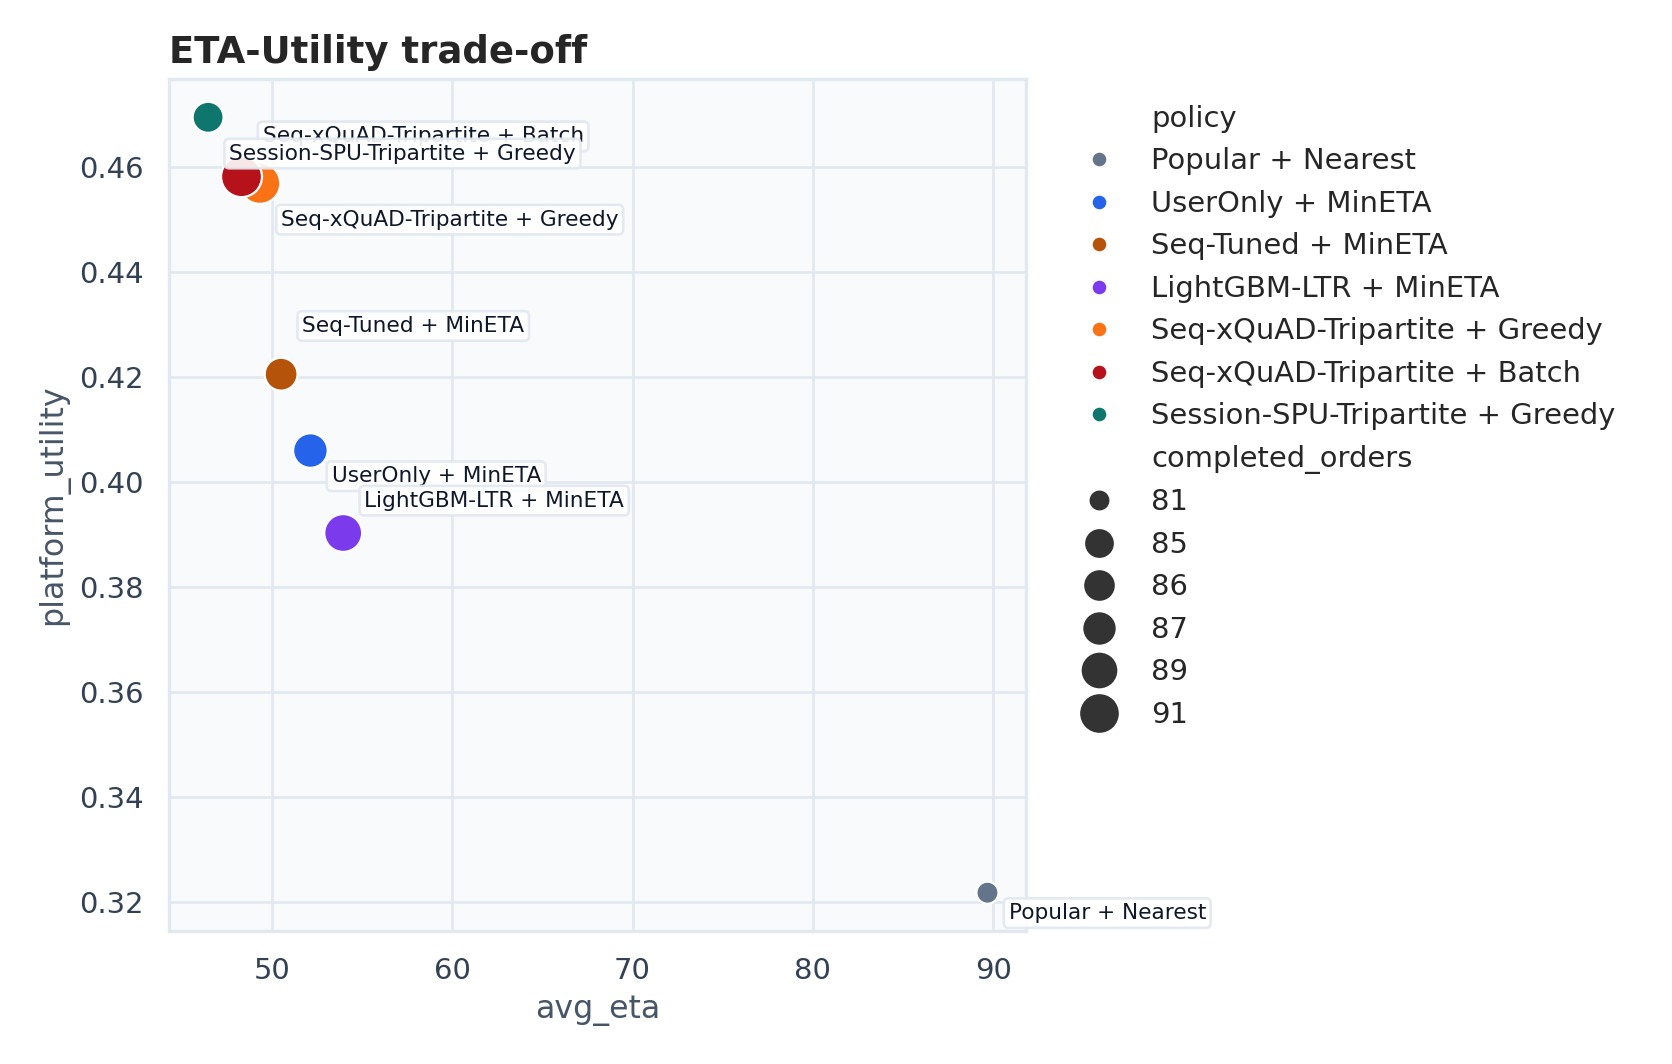
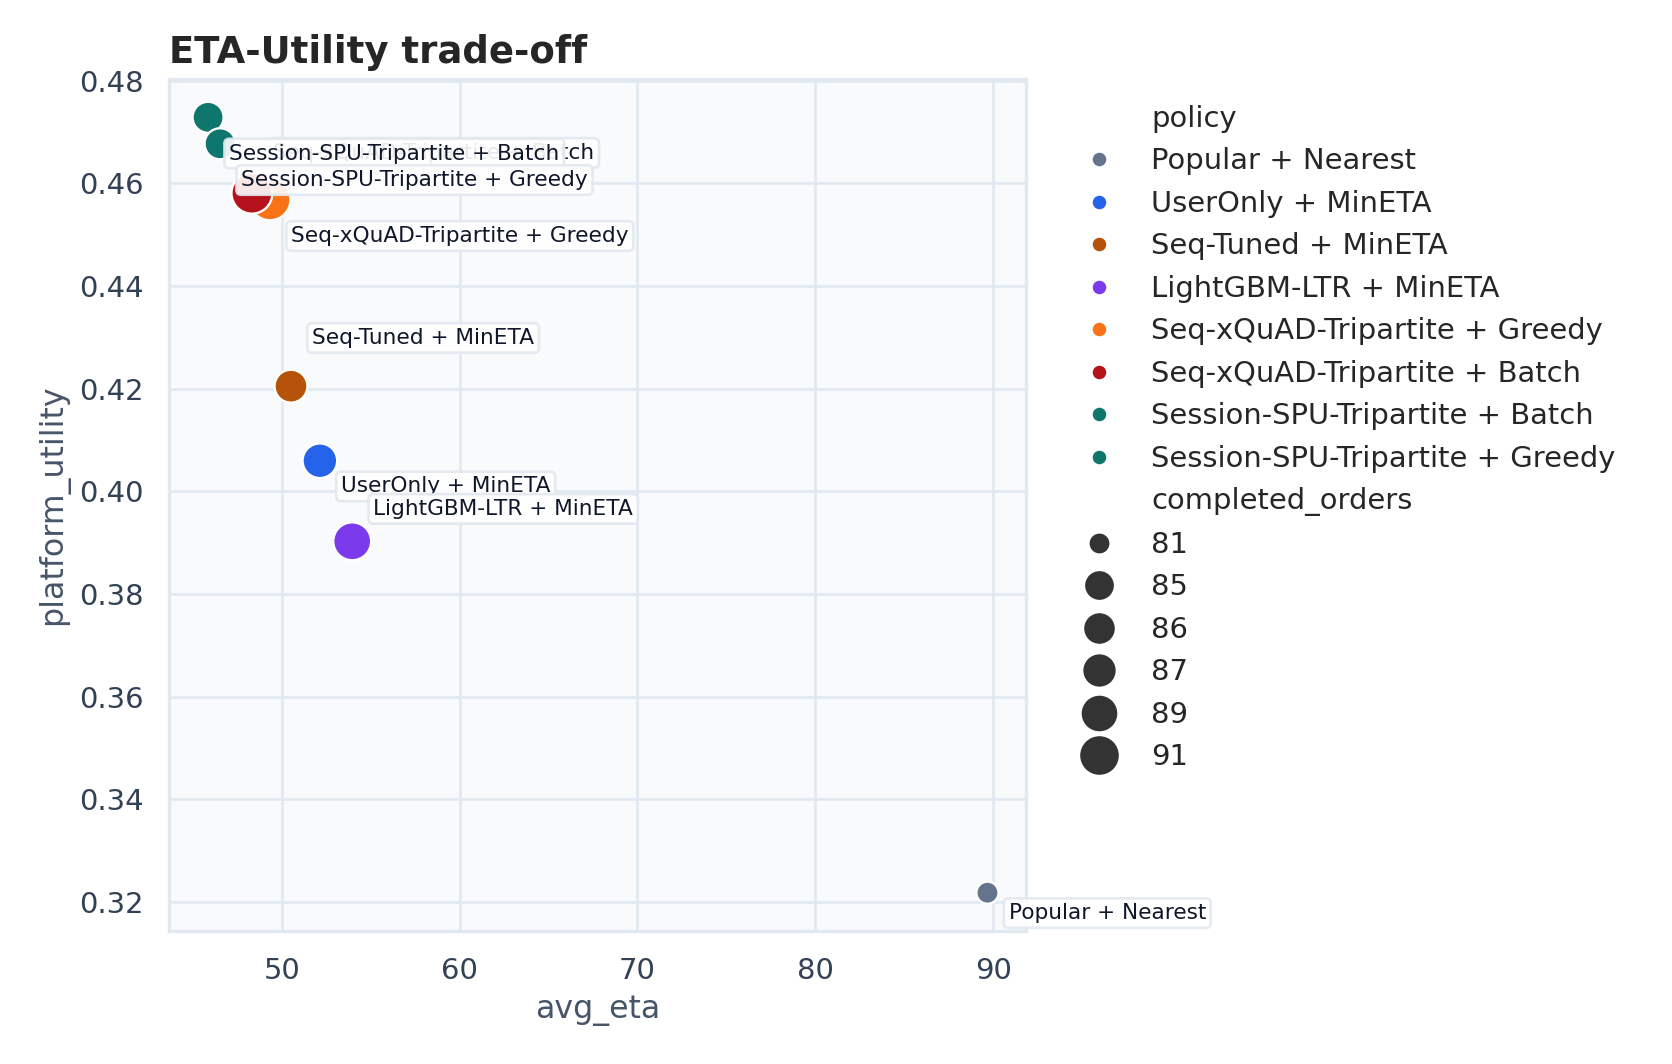
增加demo的小地图展示功能

diff --git a/foodflow/demo_support.py b/foodflow/demo_support.py
@@ -380,6 +380,61 @@ def choose_peak_replay_merchant(
     return candidates[int(rng.choice(np.arange(len(candidates)), p=probs))]
 
 
+def peak_assignment_score(
+    user_row: pd.Series,
+    merchant_row: pd.Series,
+    rider_row: pd.Series,
+    rider_policy: str,
+    eta: float,
+) -> float:
+    if rider_policy == "load_aware":
+        acceptance = acceptance_probability(user_row, merchant_row, rider_row, eta)
+        return rider_score(eta, rider_row, acceptance)
+    if rider_policy == "min_eta":
+        return -float(eta)
+    if rider_policy == "nearest":
+        return -haversine_km(
+            float(rider_row.get("lng", 116.40)),
+            float(rider_row.get("lat", 39.92)),
+            float(merchant_row.get("lng", 116.40)),
+            float(merchant_row.get("lat", 39.92)),
+        )
+    return 0.0
+
+
+def peak_match_record(
+    order_index: int,
+    order_id: str,
+    user_id: str,
+    merchant_id: str,
+    user_row: pd.Series,
+    merchant_row: pd.Series,
+    rider_id: str,
+    rider_row: pd.Series,
+    eta: float,
+    score: float,
+    slot_number: int = 0,
+) -> dict[str, object]:
+    return {
+        "order_index": int(order_index),
+        "order_id": str(order_id),
+        "user_id": str(user_id),
+        "merchant_id": str(merchant_id),
+        "merchant_name": merchant_display_name(merchant_row),
+        "rider_id": str(rider_id),
+        "slot_number": int(slot_number),
+        "eta": float(eta),
+        "score": float(score),
+        "rider_load": int(float(rider_row.get("load", 0) or 0)),
+        "user_lng": float(user_row.get("lng", 116.40)),
+        "user_lat": float(user_row.get("lat", 39.92)),
+        "merchant_lng": float(merchant_row.get("lng", 116.40)),
+        "merchant_lat": float(merchant_row.get("lat", 39.92)),
+        "rider_lng": float(rider_row.get("lng", 116.40)),
+        "rider_lat": float(rider_row.get("lat", 39.92)),
+    }
+
+
 def build_peak_trace(
     data: PreparedData,
     policies: dict[str, tuple[object, str] | tuple[object, str, str]],
@@ -428,8 +483,9 @@ def build_peak_trace(
             step_timeout = 0
             step_example: dict[str, object] = {}
             pending_orders: list[dict[str, object]] = []
+            step_matches: list[dict[str, object]] = []
 
-            for user_id in request_users:
+            for request_index, user_id in enumerate(request_users):
                 recs = rec_result.recommendations.get(user_id, [])
                 chosen = choose_peak_replay_merchant(recs, rec_result.scores.get(user_id, {}), choice_rng)
                 if chosen is None or chosen not in merchants_df.index or user_id not in users_df.index:
@@ -463,8 +519,23 @@ def build_peak_trace(
                 if rider_id is None:
                     continue
                 rider_match = available[available["rider_id"].astype(str) == str(rider_id)]
+                rider_row = rider_match.iloc[0] if not rider_match.empty else pd.Series(dtype=object)
+                order_id = f"{policy_name}-{step}-{request_index}-{user_id}"
+                step_matches.append(
+                    peak_match_record(
+                        request_index,
+                        order_id,
+                        str(user_id),
+                        str(chosen),
+                        user_row,
+                        merchant_row,
+                        rider_id,
+                        rider_row,
+                        float(eta),
+                        peak_assignment_score(user_row, merchant_row, rider_row, rider_policy, float(eta)),
+                    )
+                )
                 if not step_example and not rider_match.empty:
-                    rider_row = rider_match.iloc[0]
                     step_example = {
                         "sample_user_id": str(user_id),
                         "sample_merchant_id": str(chosen),
@@ -506,24 +577,19 @@ def build_peak_trace(
                     user_row = order["user_row"]
                     merchant_row = order["merchant_row"]
                     batch_matches.append(
-                        {
-                            "order_index": int(assignment.get("order_index", len(batch_matches))),
-                            "order_id": str(assignment["order_id"]),
-                            "user_id": str(order["user_id"]),
-                            "merchant_id": str(order["merchant_id"]),
-                            "merchant_name": merchant_display_name(merchant_row),
-                            "rider_id": rider_id,
-                            "slot_number": int(assignment.get("slot_number", 0)),
-                            "eta": eta,
-                            "score": float(assignment.get("score", 0.0)),
-                            "rider_load": int(float(rider_row.get("load", 0) or 0)),
-                            "user_lng": float(user_row.get("lng", 116.40)),
-                            "user_lat": float(user_row.get("lat", 39.92)),
-                            "merchant_lng": float(merchant_row.get("lng", 116.40)),
-                            "merchant_lat": float(merchant_row.get("lat", 39.92)),
-                            "rider_lng": float(rider_row.get("lng", 116.40)),
-                            "rider_lat": float(rider_row.get("lat", 39.92)),
-                        }
+                        peak_match_record(
+                            int(assignment.get("order_index", len(batch_matches))),
+                            str(assignment["order_id"]),
+                            str(order["user_id"]),
+                            str(order["merchant_id"]),
+                            user_row,
+                            merchant_row,
+                            rider_id,
+                            rider_row,
+                            eta,
+                            float(assignment.get("score", 0.0)),
+                            int(assignment.get("slot_number", 0)),
+                        )
                     )
                     if not step_example and not rider_match.empty:
                         step_example = {
@@ -549,9 +615,14 @@ def build_peak_trace(
                     timeout += is_timeout
                     step_timeout += is_timeout
                 if batch_matches:
+                    step_matches = batch_matches
                     step_example["batch_order_count"] = len(pending_orders)
                     step_example["batch_matched_count"] = len(batch_matches)
                     step_example["batch_matches_json"] = json.dumps(batch_matches, ensure_ascii=False)
+            if step_matches:
+                step_example["step_order_count"] = len(pending_orders) if assignment_mode == "batch" else len(request_users)
+                step_example["step_matched_count"] = len(step_matches)
+                step_example["step_matches_json"] = json.dumps(step_matches, ensure_ascii=False)
 
             assigned = riders[pd.to_numeric(riders["assigned"], errors="coerce").fillna(0) > 0]
             rows.append(

diff --git a/app.py b/app.py
@@ -379,8 +379,8 @@ def render_relative_position_map(row: pd.Series, title: str, height: int = 280) 
     st.plotly_chart(fig, use_container_width=True)
 
 
-def parse_batch_matches(row: pd.Series) -> list[dict[str, object]]:
-    raw = row.get("batch_matches_json", "")
+def parse_step_matches(row: pd.Series) -> list[dict[str, object]]:
+    raw = row.get("step_matches_json", row.get("batch_matches_json", ""))
     if raw is None or pd.isna(raw) or not str(raw).strip():
         return []
     try:
@@ -390,10 +390,10 @@ def parse_batch_matches(row: pd.Series) -> list[dict[str, object]]:
     return matches if isinstance(matches, list) else []
 
 
-def render_batch_matching_view(row: pd.Series) -> None:
-    matches = parse_batch_matches(row)
+def render_step_matching_view(row: pd.Series) -> None:
+    matches = parse_step_matches(row)
     if not matches:
-        st.caption("该时间步没有可展示的 batch 匹配。")
+        st.caption("该时间步没有可展示的匹配。")
         return
 
     display_matches = matches[:16]
@@ -507,8 +507,8 @@ def render_batch_matching_view(row: pd.Series) -> None:
     fig.update_layout(
         title=dict(
             text=(
-                f"{row['policy']} · 第 {int(row['step'])} 步 batch 地图匹配 "
-                f"({int(row.get('batch_matched_count', len(matches)))} / {int(row.get('batch_order_count', len(matches)))})"
+                f"{row['policy']} · 第 {int(row['step'])} 步 {row.get('assignment_mode', 'greedy')} 地图匹配 "
+                f"({int(row.get('step_matched_count', len(matches)))} / {int(row.get('step_order_count', len(matches)))})"
             ),
             font=dict(color="#111827", size=15),
         ),
@@ -530,8 +530,8 @@ def render_batch_matching_view(row: pd.Series) -> None:
         scaleratio=1,
     )
     st.caption(
-        "蓝色 O 是用户订单，紫色 S 是骑手容量槽位，橙/绿实线表示 batch 匹配结果；"
-        "紫色虚线表示骑手到商家的取餐段，绿色菱形是订单对应商家。"
+        "蓝色 O 是用户订单，紫色 S 是骑手或骑手容量槽位，橙/绿实线表示该策略的匹配结果；"
+        "紫色虚线表示骑手到商家的取餐段，绿色菱形是订单对应商家。Greedy 是逐单局部选择，Batch 是整批二分图匹配。"
     )
     st.plotly_chart(fig, use_container_width=True)
 
@@ -1382,30 +1382,34 @@ with tab_peak:
                                 height=260,
                             )
 
-            if "assignment_mode" in trace_df.columns and "batch_matches_json" in trace_df.columns:
-                batch_rows = trace_df[
-                    trace_df["assignment_mode"].astype(str).eq("batch")
-                    & trace_df["batch_matches_json"].fillna("").astype(str).str.len().gt(2)
+            if "assignment_mode" in trace_df.columns and "step_matches_json" in trace_df.columns:
+                match_rows = trace_df[
+                    trace_df["step_matches_json"].fillna("").astype(str).str.len().gt(2)
                 ].copy()
-                if not batch_rows.empty:
-                    st.subheader("Batch 地图匹配")
+                if not match_rows.empty:
+                    st.subheader("单步匹配地图")
                     b1, b2 = st.columns([1.2, 0.8])
-                    batch_policies = batch_rows["policy"].astype(str).drop_duplicates().tolist()
+                    preferred_modes = match_rows[
+                        match_rows["rider_policy"].astype(str).eq("load_aware")
+                    ].copy()
+                    if preferred_modes.empty:
+                        preferred_modes = match_rows
+                    match_policies = preferred_modes["policy"].astype(str).drop_duplicates().tolist()
                     with b1:
-                        selected_batch_policy = st.selectbox("Batch 策略", batch_policies, key="peak_batch_policy")
-                    policy_batch_rows = batch_rows[batch_rows["policy"].astype(str) == selected_batch_policy].sort_values("step")
-                    batch_steps = policy_batch_rows["step"].astype(int).tolist()
+                        selected_match_policy = st.selectbox("匹配策略", match_policies, key="peak_match_policy")
+                    policy_match_rows = match_rows[match_rows["policy"].astype(str) == selected_match_policy].sort_values("step")
+                    match_steps = policy_match_rows["step"].astype(int).tolist()
                     with b2:
-                        selected_batch_step = st.selectbox(
+                        selected_match_step = st.selectbox(
                             "时间步",
-                            batch_steps,
-                            index=max(len(batch_steps) - 1, 0),
-                            key="peak_batch_step",
+                            match_steps,
+                            index=max(len(match_steps) - 1, 0),
+                            key="peak_match_step",
                         )
-                    batch_row = policy_batch_rows[policy_batch_rows["step"].astype(int) == int(selected_batch_step)].iloc[-1]
-                    render_batch_matching_view(batch_row)
+                    match_row = policy_match_rows[policy_match_rows["step"].astype(int) == int(selected_match_step)].iloc[-1]
+                    render_step_matching_view(match_row)
 
-            trace_display = trace_df.drop(columns=["batch_matches_json"], errors="ignore")
+            trace_display = trace_df.drop(columns=["batch_matches_json", "step_matches_json"], errors="ignore")
             st.dataframe(trace_display, use_container_width=True, hide_index=True)
     else:
         st.caption("开启后会连续运行多轮推荐与派单仿真，首次计算需要等待。")

diff --git a/tests/test_demo_support.py b/tests/test_demo_support.py
@@ -99,11 +99,21 @@ def test_demo_recommendation_and_rider_frames(tmp_path: Path):
     assert set(trace["policy"]) == {"UserOnly + MinETA", "Seq-xQuAD-Tripartite", "Seq-xQuAD-Tripartite + Batch"}
     assert trace["step"].max() == 3
     assert trace["completed_orders"].max() > 0
-    assert {"step_completed_orders", "step_avg_eta", "step_timeout_rate", "assignment_mode"}.issubset(trace.columns)
+    assert {
+        "step_completed_orders",
+        "step_avg_eta",
+        "step_timeout_rate",
+        "assignment_mode",
+        "step_matches_json",
+    }.issubset(trace.columns)
     assert trace["step_completed_orders"].ge(0).all()
     assert "batch" in set(trace["assignment_mode"])
     assert {"sample_user_lng", "sample_merchant_lng", "sample_rider_lng"}.issubset(trace.columns)
+    greedy_trace = trace[trace["assignment_mode"].astype(str).eq("greedy")]
+    greedy_matches = json.loads(greedy_trace["step_matches_json"].dropna().astype(str).iloc[0])
+    assert greedy_matches
     batch_trace = trace[trace["assignment_mode"].astype(str).eq("batch")]
+    step_batch_matches = json.loads(batch_trace["step_matches_json"].dropna().astype(str).iloc[0])
     batch_matches = json.loads(batch_trace["batch_matches_json"].dropna().astype(str).iloc[0])
-    assert batch_matches
+    assert step_batch_matches == batch_matches
     assert {"order_id", "rider_id", "slot_number", "eta", "score"}.issubset(batch_matches[0])

diff --git a/tests/test_metrics.py b/tests/test_metrics.py
@@ -112,6 +112,13 @@ def test_tripartite_frontier_marks_dominated_rows():
                 "ExposureGini": 0.75,
                 "Coverage@20": 0.22,
             },
+            {
+                "model": "Session-SPU-Tripartite",
+                "Recall@20": 0.34,
+                "NDCG@20": 0.27,
+                "ExposureGini": 0.69,
+                "Coverage@20": 0.24,
+            },
         ]
     )
     simulation = pd.DataFrame(
@@ -148,12 +155,21 @@ def test_tripartite_frontier_marks_dominated_rows():
                 "user_satisfaction": 0.82,
                 "platform_utility": 0.49,
             },
+            {
+                "policy": "Session-SPU-Tripartite + Batch",
+                "avg_eta": 46.0,
+                "timeout_rate": 0.40,
+                "on_time_rate": 0.60,
+                "user_satisfaction": 0.78,
+                "platform_utility": 0.56,
+            },
         ]
     )
     frontier = build_tripartite_frontier(offline, simulation)
     assert {"policy", "model", "is_frontier"}.issubset(frontier.columns)
     assert "LightGBM-LTR + MinETA" in set(frontier["policy"])
     assert "Seq-xQuAD-Tripartite + Batch" in set(frontier["policy"])
+    assert "Session-SPU-Tripartite + Batch" in set(frontier["policy"])
     assert frontier["is_frontier"].any()
 
 

diff --git a/foodflow/frontier.py b/foodflow/frontier.py
@@ -12,6 +12,7 @@ POLICY_MODEL_MAP = {
     "Seq-xQuAD-Tripartite + Greedy": "Seq-xQuAD-Tripartite",
     "Seq-xQuAD-Tripartite + Batch": "Seq-xQuAD-Tripartite",
     "Session-SPU-Tripartite + Greedy": "Session-SPU-Tripartite",
+    "Session-SPU-Tripartite + Batch": "Session-SPU-Tripartite",
     "Seq-xQuAD-Tripartite": "Seq-xQuAD-Tripartite",
     "Seq-xQuAD-Tripartite-Batch": "Seq-xQuAD-Tripartite",
     "Session-SPU-Tripartite": "Session-SPU-Tripartite",

diff --git a/docs/DATA_AUDIT.md b/docs/DATA_AUDIT.md
@@ -26,9 +26,9 @@
 
 | file                  | exists   |    bytes |    rows |
 |:----------------------|:---------|---------:|--------:|
-| users.csv             | True     | 16543513 |  200000 |
-| merchants.csv         | True     |  4697590 |   29072 |
-| spus.csv              | True     | 16908698 |  179778 |
-| orders_train.csv      | True     | 73900028 | 1068495 |
-| orders_test.csv       | True     | 12841724 |  230550 |
-| test_interactions.csv | True     |  4404411 |  230550 |
+| users.csv             | True     | 16743514 |  200000 |
+| merchants.csv         | True     |  4726663 |   29072 |
+| spus.csv              | True     | 17088477 |  179778 |
+| orders_train.csv      | True     | 74968524 | 1068495 |
+| orders_test.csv       | True     | 13072275 |  230550 |
+| test_interactions.csv | True     |  4634962 |  230550 |
